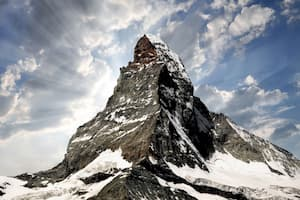
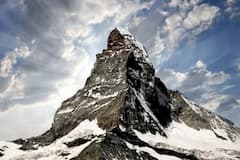
test 3

diff --git a/Index.html b/Index.html
@@ -8,7 +8,21 @@
     <link rel="stylesheet" href="styles.css">
 </head>
 <body>
+    <h1>Hi, I'm Yusuf</h1>
     <img src="images/mountain.jpg">
-    <a href="https://www.facebook.com">Facebook</a>
+    <div class="container" align="center">
+    <table align="center">
+        <tr>
+            <td><a href="https://www.facebook.com"><img src="images/facebook1.jpg"></a></td>
+            <td><a href="https://twitter.com"><img src="images/twitter1.png"></a></td>
+            <td><a href="https://www.instagram.com"><img src="images/instagram.jpg"></a></td>
+            <td><a href="mailto:yusuf.abore@gmail.com"><img src="images/gmail.png"></a></td>
+            <div class="overlay">
+        </tr>
+        </div>
+        </div>
+
+
+    </table>
 </body>
 </html>

diff --git a/styles.css b/styles.css
@@ -1,4 +1,23 @@
 img {
-    border-radius: 50%;
-    width: 30%;
-  }
+  display: block;
+  margin-left: auto;
+  margin-right: auto;
+  border-radius: 50%;
+}
+h1 {
+  text-align: center;
+}
+
+table {
+  background-color: white;
+  width: 60%;
+  
+}
+td {
+  padding: 100px;
+}
+.container {
+  position: relative;
+  width: 60%;
+}
+
